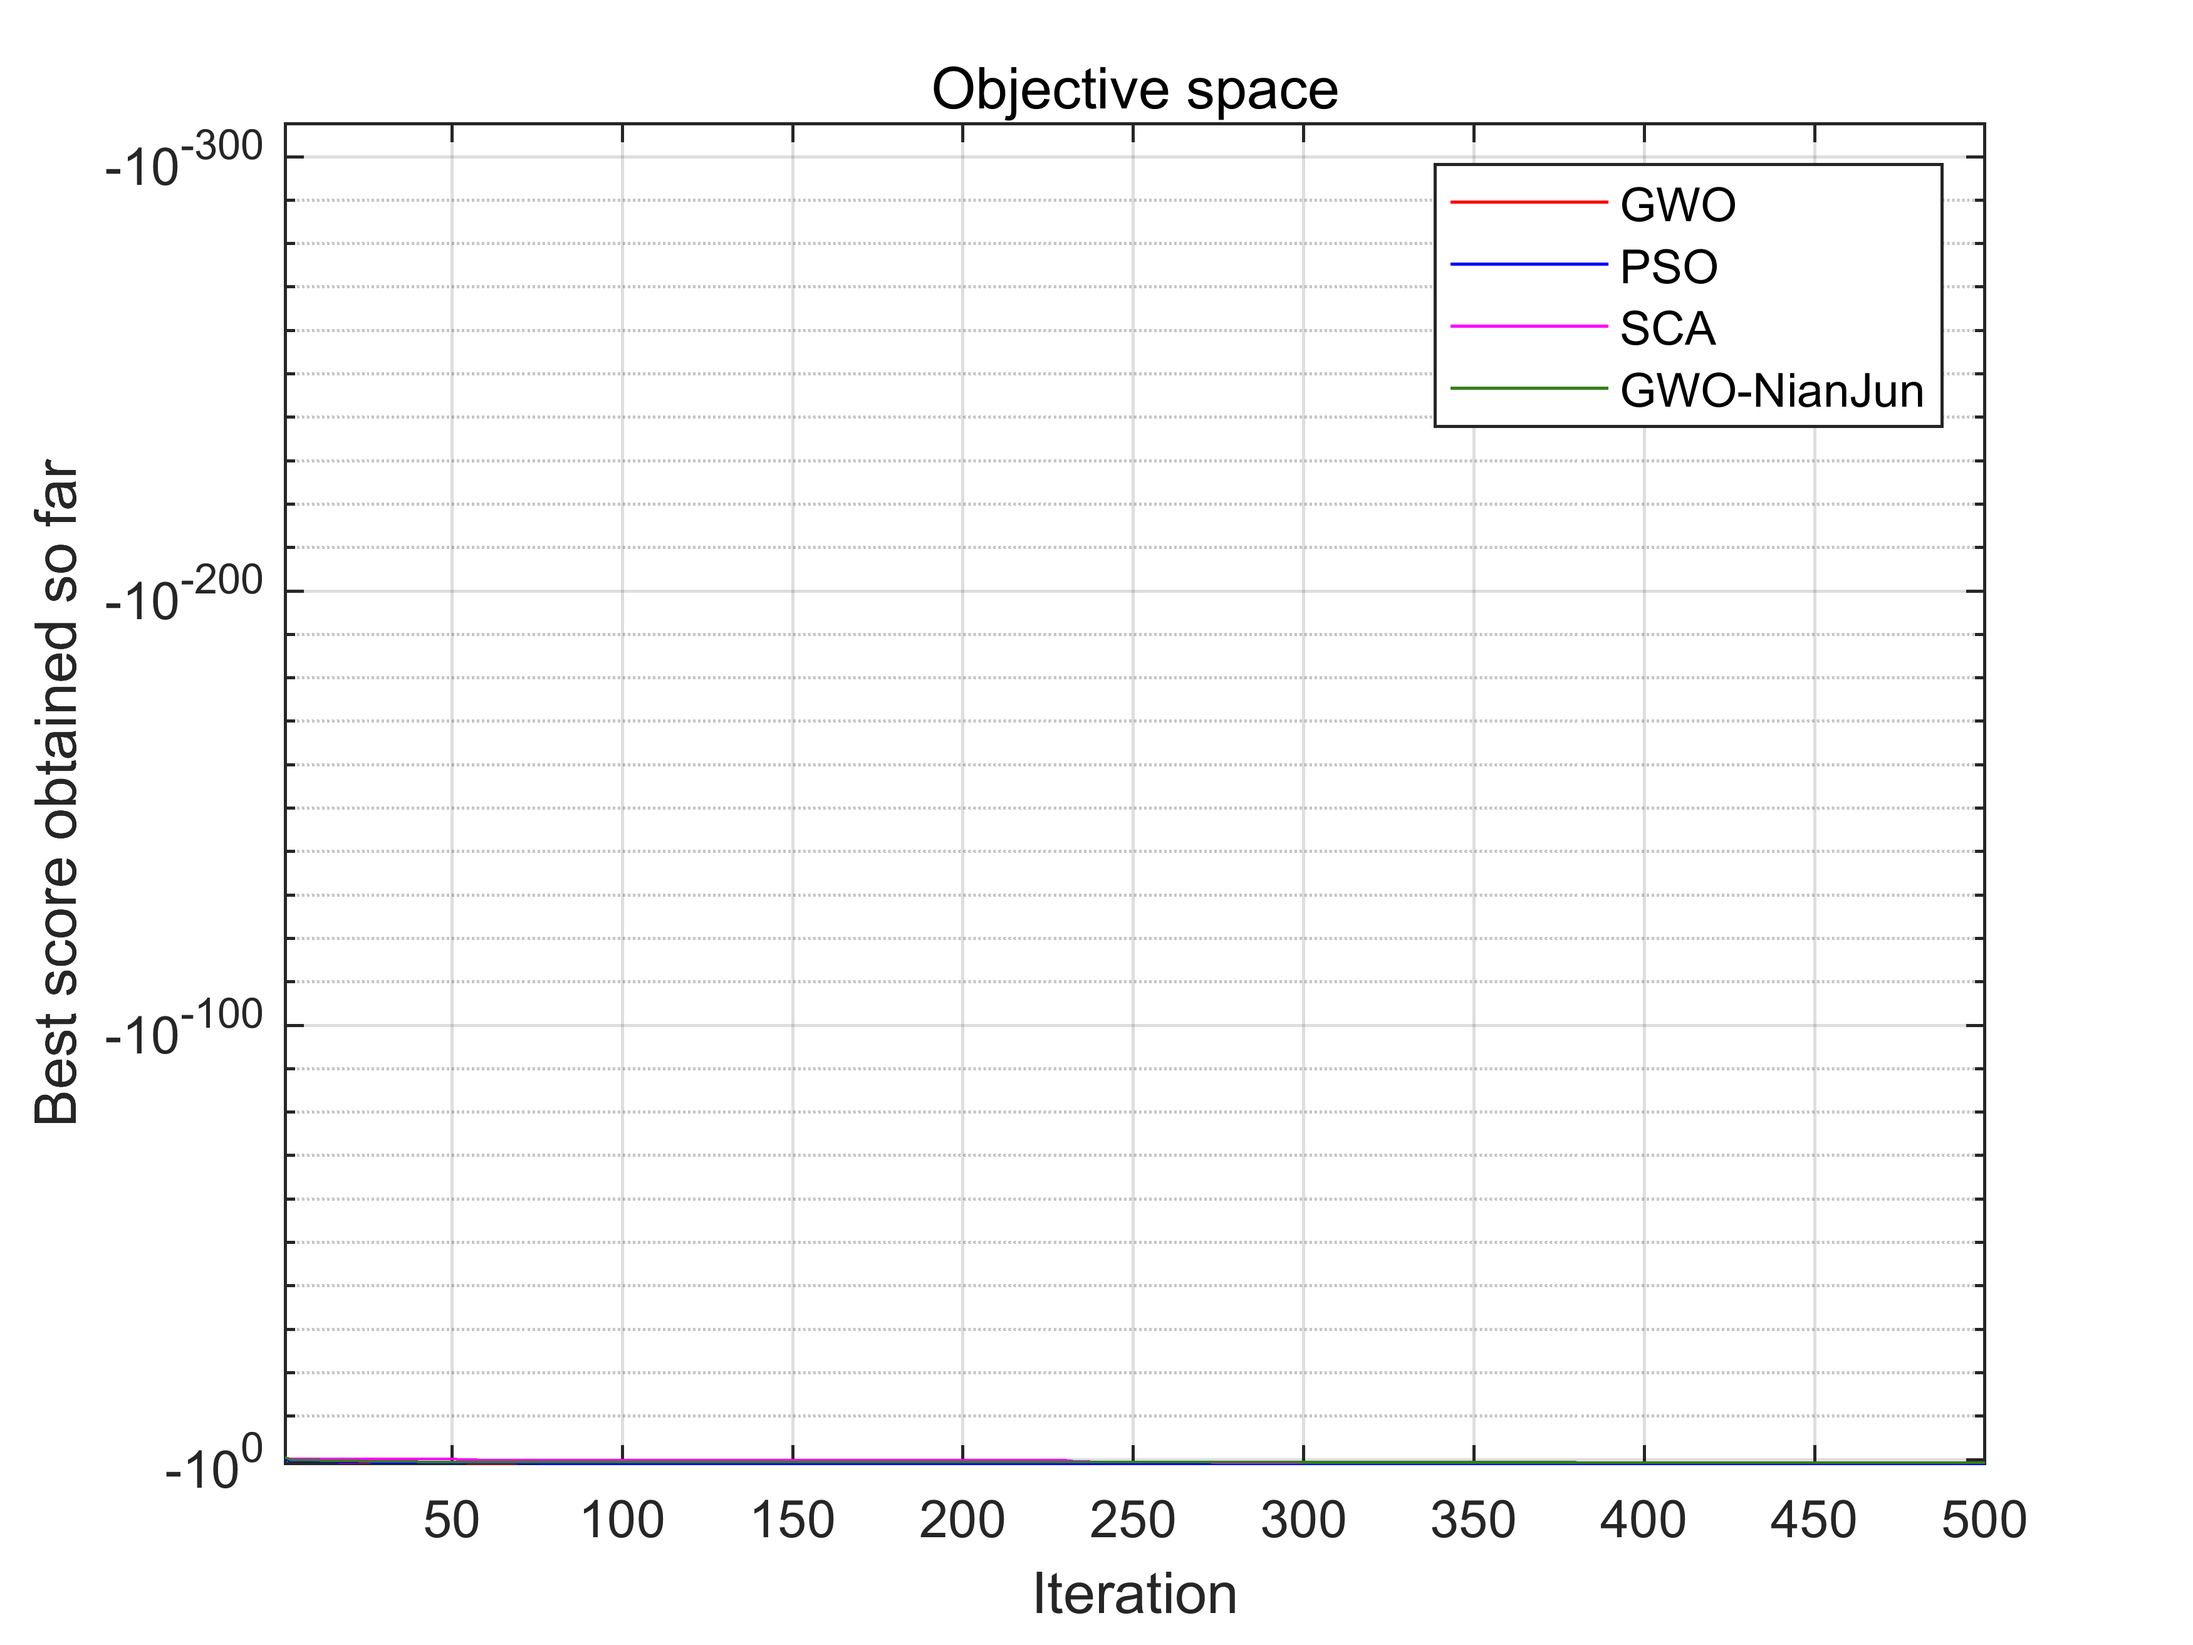
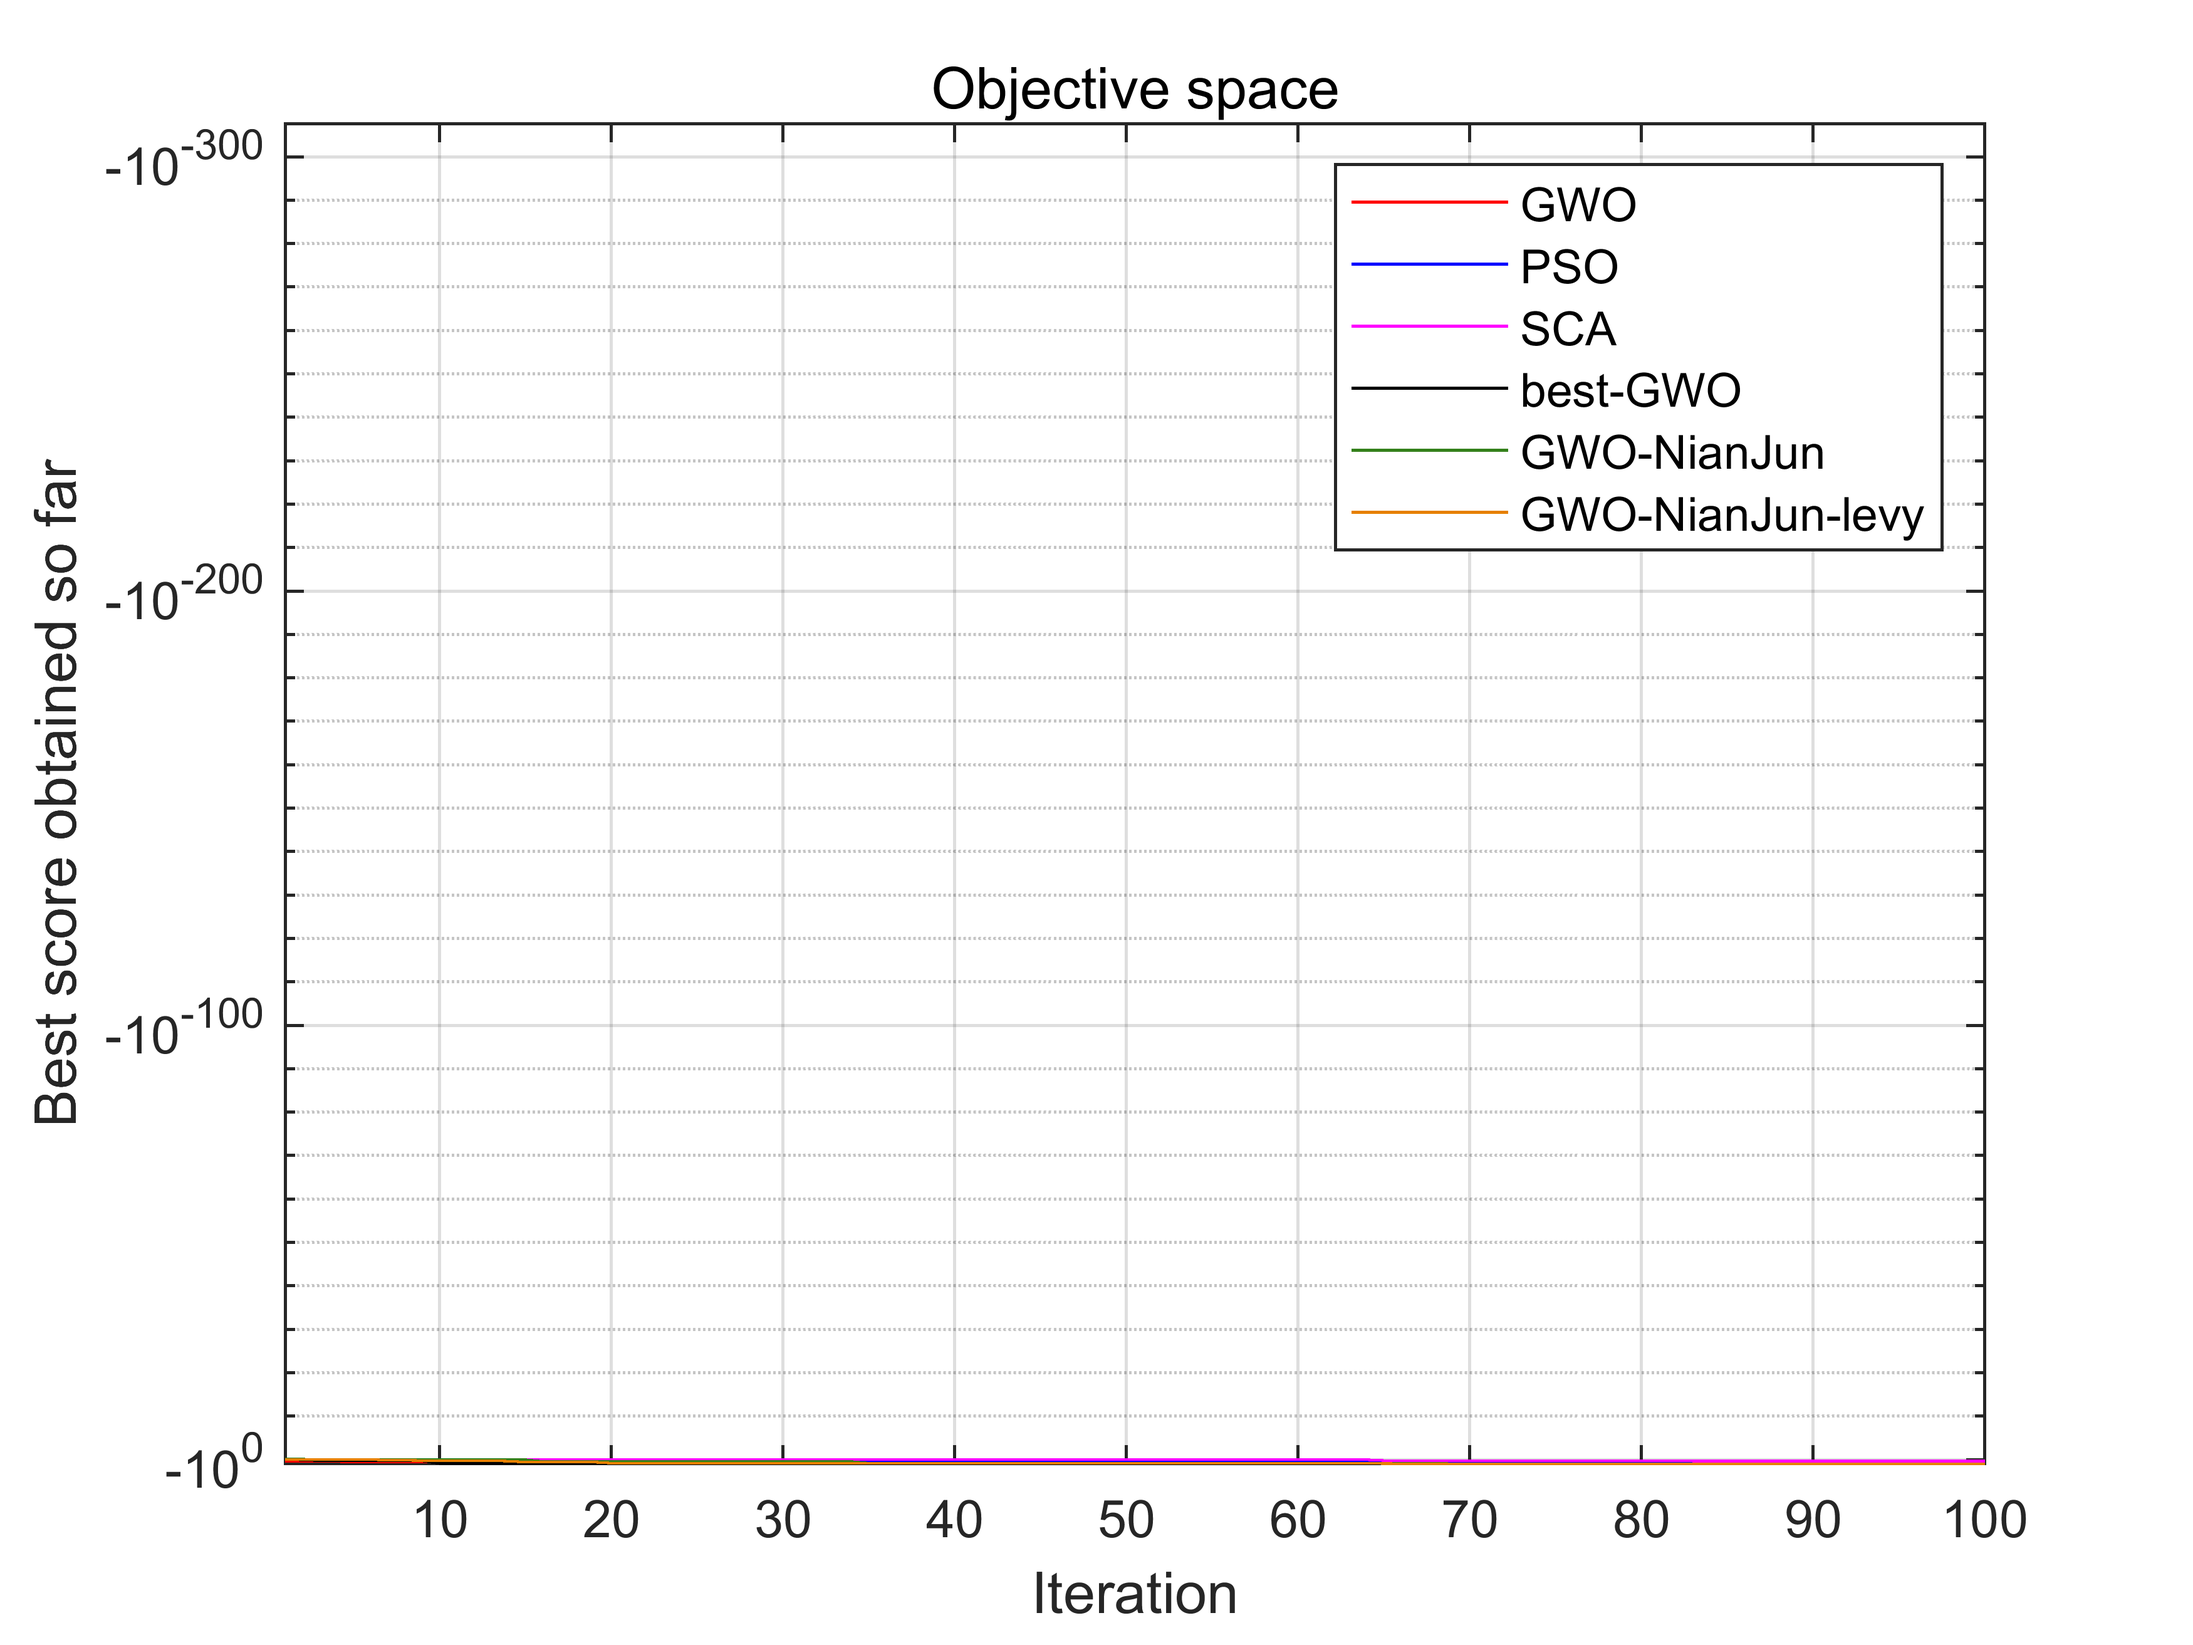
新增GWO_NianJun_Others（原计划增加PSO扰动，但是效果不佳），目前仅调整原黏菌算法的参数，达到了很好的效果

diff --git a/GWO_original/GWO_NianJun_Others.m b/GWO_original/GWO_NianJun_Others.m
@@ -1,4 +1,4 @@
-function [Alpha_score,Alpha_pos,Convergence_curve]=GWO_NianJun(SearchAgents_no,Max_iter,lb,ub,dim,fobj)
+function [Alpha_score,Alpha_pos,Convergence_curve]=GWO_NianJun_Others(SearchAgents_no,Max_iter,lb,ub,dim,fobj)
 
 % initialize alpha, beta, and delta_pos
 Alpha_pos=zeros(1,dim);
@@ -14,8 +14,12 @@ Delta_score=inf; %change this to -inf for maximization problems
 Positions=initialization(SearchAgents_no,dim,ub,lb);
 
 Convergence_curve=zeros(1,Max_iter);
-
 l=0;% Loop counter
+
+best_of_every=Positions;
+best_score_of_every=Inf(1,SearchAgents_no);
+best_of_whole=Positions(1,:);
+best_score_of_whole=inf;
 
 % Main loop
 while l<Max_iter
@@ -28,7 +32,15 @@ while l<Max_iter
         
         % Calculate objective function for each search agent
         fitness=fobj(Positions(i,:));
-        
+        if (fitness < best_score_of_whole)
+            best_score_of_whole = fitness;
+            best_of_whole = Positions(i,:);
+        end
+        if (fitness < best_score_of_every(i))
+            best_score_of_every(i) = fitness;
+            best_of_every(i,:) = Positions(i,:);
+        end
+
         % Update Alpha, Beta, and Delta
         if fitness<Alpha_score 
             Alpha_score=fitness; % Update alpha
@@ -89,10 +101,11 @@ while l<Max_iter
     old_position = Positions;
     accept=0;
     reject=0;
-    llb = 0.2*(Max_iter - l)/Max_iter;
+    llb = 0.2*(Max_iter - l)/Max_iter + 0.1;
+%     llb = 0.2*(Max_iter - l)/Max_iter;
     uub = 1-llb;
     for i = 1:SearchAgents_no % position to be changed
-        for w = 1:round(SearchAgents_no/50) % neighbor selected
+        for w = 1:round(SearchAgents_no/10) % neighbor selected
             j = randi([1,SearchAgents_no]);
             diff = old_position(i,:) - old_position(j,:);
             i_score = fobj(old_position(i,:));
@@ -100,9 +113,9 @@ while l<Max_iter
             trust_score = abs(i_score - j_score) / (norm(diff,2)+0.01);
             %disp(trust_score);
             if (i_score - j_score > 0)
-                Positions(i,:) = Positions(i,:) - (uub * (1 - exp(-trust_score/10)) + llb) * diff;
+                Positions(i,:) = Positions(i,:) - (uub * (1 - exp(-trust_score/100)) + llb) * diff;
             else
-                Positions(i,:) = Positions(i,:) + (uub * (1 - exp(-trust_score/10)) + llb) * diff;
+                Positions(i,:) = Positions(i,:) + (uub * (1 - exp(-trust_score/100)) + llb) * diff;
             end
         end
         for j = 1:dim % prevent error solution
@@ -121,8 +134,47 @@ while l<Max_iter
         end
     end
     accept_curve(l+1)=accept/(accept+reject);
-    if (accept/(accept+reject) == 0)
-        aaa = 11;
+    if (accept_curve(l+1) == 1)
+        asdasd = 1231;
+    end
+    if (accept/(accept+reject) < 0.05)
+%         disp('rebuild');
+%         for w = 1:round(SearchAgents_no/10)
+%             old_version = Positions(w,:);
+%             rand_num = randi([1,SearchAgents_no]);
+%             DIFF = Positions(w,:) - Positions(rand_num,:);
+%             DIFF = DIFF / norm(DIFF,2);
+% %             Positions(w,:) = Positions(rand_num,:)+0.1*levy_flight()*(Worse_pos-Positions(rand_num,:));
+%             Positions(w,:) = Positions(w,:) + 0.5 * levy_flight() * DIFF;
+%             for j = 1:size(Positions,2)
+%                 if (Positions(w,j) > ub)
+%                     Positions(w,j) = ub;
+%                 end
+%                 if (Positions(w,j) < lb)
+%                     Positions(w,j) = lb;
+%                 end
+%             end
+%             if(fobj(Positions(w,:)) > fobj(old_version))    
+%                 Positions(w,:) = old_version;
+%             end
+%         end
+
+%         disp('rebuild2-PSO');
+%         for w = 1:round(SearchAgents_no/5)
+%             old_version = Positions(w,:);
+%             Positions(w,:) = Positions(w,:) + 2 * rand() * (best_of_whole - Positions(w,:)) + 2 * rand() * (best_of_every(w,:) - Positions(w,:));
+%             for j = 1:size(Positions,2)
+%                 if (Positions(w,j) > ub)
+%                     Positions(w,j) = ub;
+%                 end
+%                 if (Positions(w,j) < lb)
+%                     Positions(w,j) = lb;
+%                 end
+%             end
+%             if(fobj(Positions(w,:)) > fobj(old_version))    
+%                 Positions(w,:) = old_version;
+%             end
+%         end
     end
 
     %disp(Alpha_pos);

diff --git a/GWO_original/main.m b/GWO_original/main.m
@@ -33,6 +33,8 @@
 %__________________________________________
 
 clear all
+profile -historysize 500000000
+profile on
 for kw = 1:22
     if kw == 17
         continue
@@ -40,21 +42,22 @@ for kw = 1:22
     SearchAgents_no=100; % Number of search agents
     Function_name=strcat('F', num2str(kw)); % Name of the test function that can be from F1 to F23 (Table 1,2,3 in the paper)
 
-    Max_iteration=500; % Maximum numbef of iterations
+    Max_iteration=100; % Maximum numbef of iterations
     
     % Load details of the selected benchmark function
     [lb,ub,dim,fobj]=Get_Functions_details(Function_name);
     
     [Best_score,Best_pos,GWO_cg_curve]=GWO(SearchAgents_no,Max_iteration,lb,ub,dim,fobj);
-    [my_Best_score,my_Best_pos,my_GWO_cg_curve]=IGWO(SearchAgents_no,Max_iteration,lb,ub,dim,fobj);
+%     [my_Best_score,my_Best_pos,my_GWO_cg_curve]=IGWO(SearchAgents_no,Max_iteration,lb,ub,dim,fobj);
     PSO_cg_curve=PSO(SearchAgents_no,Max_iteration,lb,ub,dim,fobj); % run PSO to compare to results
     [Best_score_SCA,Best_pos_SCA,cg_curve_SCA]=SCA(SearchAgents_no,Max_iteration,lb,ub,dim,fobj);
     [my_Best_score2,my_Best_pos2,my_GWO_cg_curve2]=IGWO2(dim,SearchAgents_no,Max_iteration,lb,ub,fobj);
-    [my_Best_score3,my_Best_pos3,my_GWO_cg_curve3]=my_new_GWO(SearchAgents_no,Max_iteration,lb,ub,dim,fobj);
-    [my_Best_score4,my_Best_pos4,my_GWO_cg_curve4]=my_new_GWO_temp(dim,SearchAgents_no,Max_iteration,lb,ub,fobj);
-    [my_Best_score5,my_Best_pos5,my_GWO_cg_curve5]=my_new_GWO_with_PSO(SearchAgents_no,Max_iteration,lb,ub,dim,fobj);
-    [my_Best_score6,my_Best_pos6,my_GWO_cg_curve6]=my_new_GWO_master_slave(SearchAgents_no,Max_iteration,lb,ub,dim,fobj);
+%     [my_Best_score3,my_Best_pos3,my_GWO_cg_curve3]=my_new_GWO(SearchAgents_no,Max_iteration,lb,ub,dim,fobj);
+%     [my_Best_score4,my_Best_pos4,my_GWO_cg_curve4]=my_new_GWO_temp(dim,SearchAgents_no,Max_iteration,lb,ub,fobj);
+%     [my_Best_score5,my_Best_pos5,my_GWO_cg_curve5]=my_new_GWO_with_PSO(SearchAgents_no,Max_iteration,lb,ub,dim,fobj);
+%     [my_Best_score6,my_Best_pos6,my_GWO_cg_curve6]=my_new_GWO_master_slave(SearchAgents_no,Max_iteration,lb,ub,dim,fobj);
     [my_Best_score7,my_Best_pos7,my_GWO_cg_curve7]=GWO_NianJun(SearchAgents_no,Max_iteration,lb,ub,dim,fobj);
+    [my_Best_score8,my_Best_pos8,my_GWO_cg_curve8]=GWO_NianJun_Others(SearchAgents_no,Max_iteration,lb,ub,dim,fobj);
     %figure('Position',[500 500 660 290])
     fig = figure(Visible="on");
     % Draw search space
@@ -72,12 +75,13 @@ for kw = 1:22
     %semilogy(my_GWO_cg_curve, 'Color', 'g');
     semilogy(PSO_cg_curve, 'Color', 'b');
     semilogy(cg_curve_SCA, 'Color', 'magenta')
-    %semilogy(my_GWO_cg_curve2, 'Color', 'black');
+    semilogy(my_GWO_cg_curve2, 'Color', 'black');
     %semilogy(my_GWO_cg_curve3, 'Color', 'cyan');
     %semilogy(my_GWO_cg_curve4, 'Color', 'yellow');
     %semilogy(my_GWO_cg_curve5, 'Color', [0.5 0.2 0.2]);
     %semilogy(my_GWO_cg_curve6, 'Color', [0.8 0.2 0.5]);
     semilogy(my_GWO_cg_curve7, 'Color', [0.2 0.5 0.1]);
+    semilogy(my_GWO_cg_curve8, 'Color', [0.9 0.5 0]);
     title('Objective space')
     xlabel('Iteration');
     ylabel('Best score obtained so far');
@@ -86,7 +90,7 @@ for kw = 1:22
     grid on
     box on
     %legend('GWO', 'myGWO', 'PSO', 'SCA', 'best-GWO', 'my-new-GWO', 'best-GWO-temp', 'my_GWO_with_PSO');
-    legend('GWO', 'PSO', 'SCA', 'GWO-NianJun');
+    legend('GWO', 'PSO', 'SCA', 'best-GWO', 'GWO-NianJun', 'GWO-NianJun-levy');
     asdas = num2str(kw);
     disp(asdas)
     file_name = strcat('C:\Users\28898\OneDrive\Documents\MATLAB\GWO_original\all_fun\', num2str(kw), '.png');
@@ -97,3 +101,4 @@ for kw = 1:22
     display(['The best optimal value of the objective funciton found by GWO is : ', num2str(Best_score)]);
     disp('-------------------------------')
 end
+profile viewer

diff --git a/GWO_original/IGWO2.m b/GWO_original/IGWO2.m
@@ -37,7 +37,7 @@
 %___________________________________________________________________%
 
 % Improved Grey Wolf Optimizer (I-GWO)
-function [Alpha_score,Alpha_pos,Convergence_curve]=IGWO2(dim,N,Max_iter,lb,ub,fobj)
+function [Alpha_score,Alpha_pos,Convergence_curve]=IGWO(dim,N,Max_iter,lb,ub,fobj)
 
 
 lu = [lb .* ones(1, dim); ub .* ones(1, dim)];
